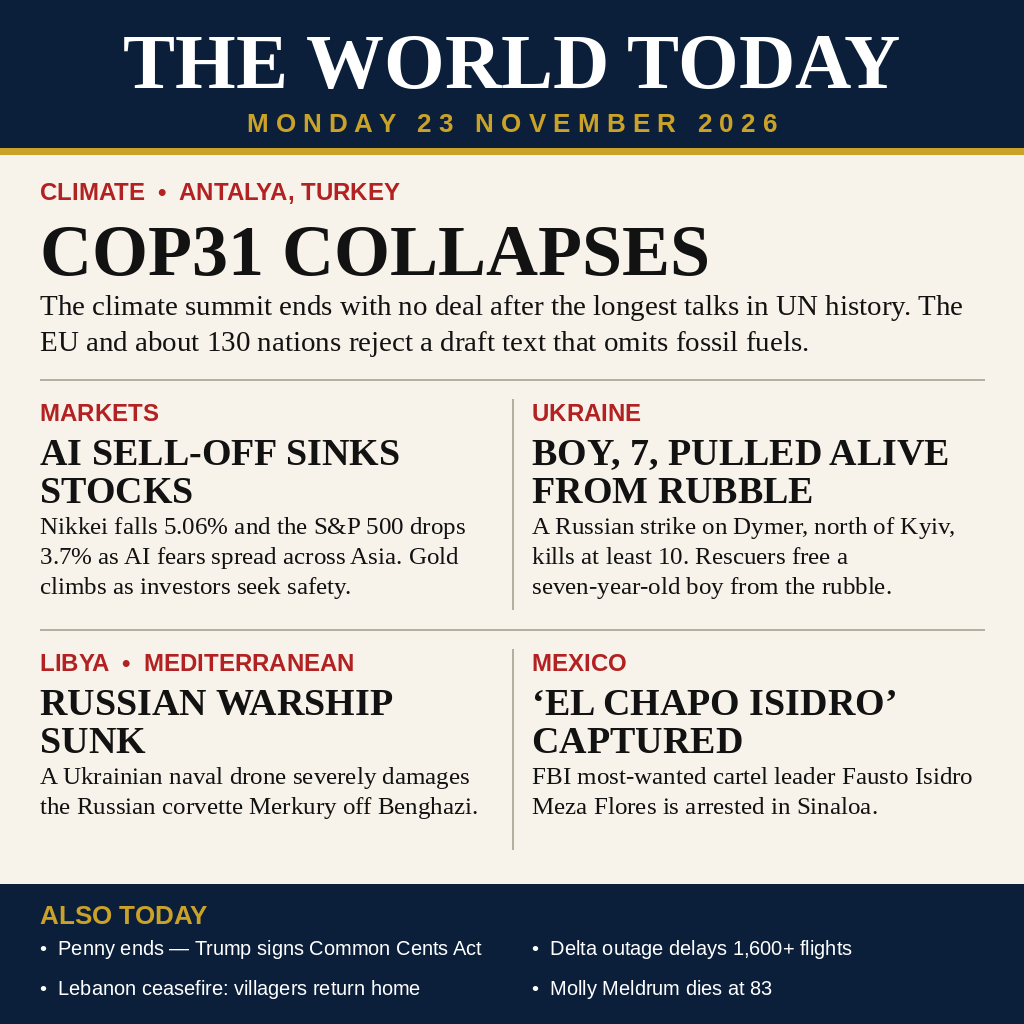
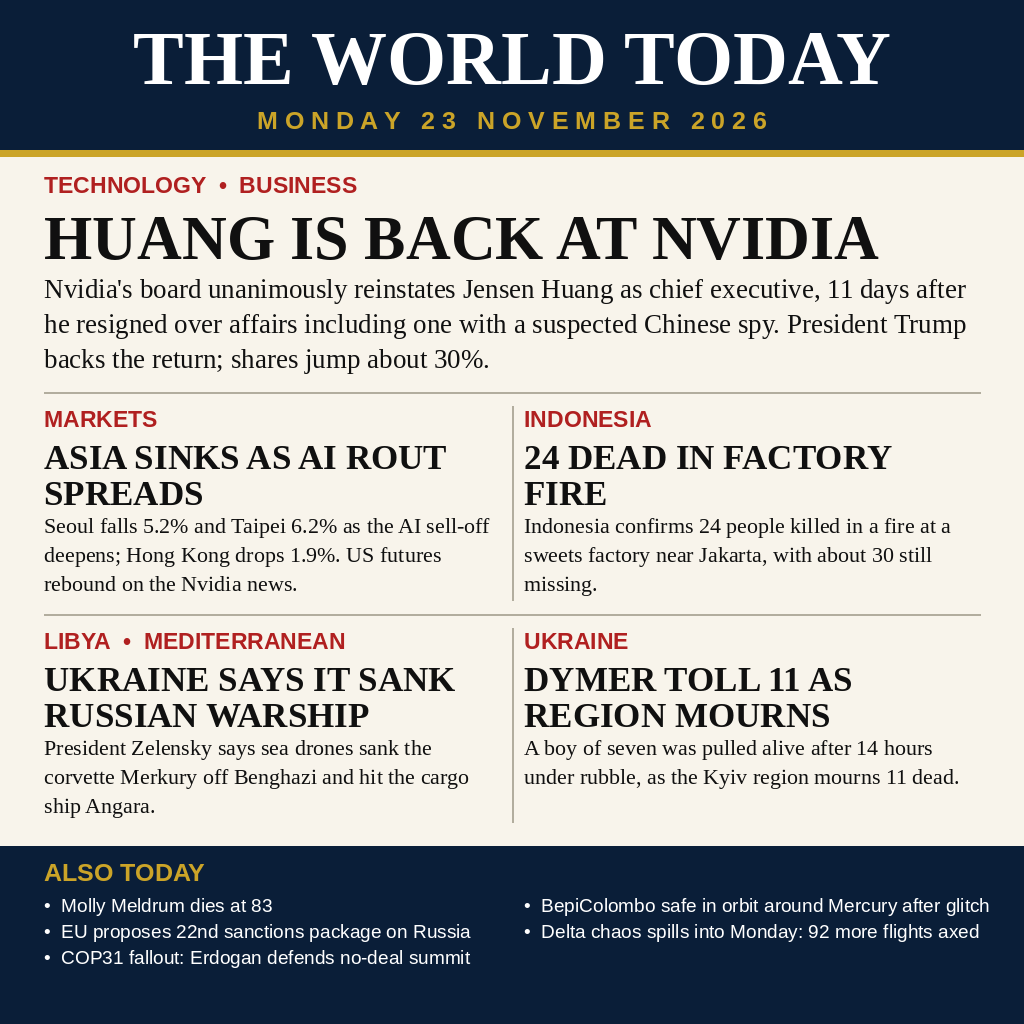
v2: rebuild front page around verified Monday 23 Nov 2026 news
Lead with Nvidia reinstating Jensen Huang (board vote Monday);
fix v1 dating errors (COP31, markets, penny, El Chapo Isidro,
Delta, Lebanon were Fri-Sun/2024 events, not Monday). New stories:
Asia Monday sell-off, Indonesia factory fire toll, Merkury sinking
claim, Dymer toll 11, plus Molly Meldrum, BepiColombo, EU sanctions,
Delta Monday cancellations, COP31 fallout in Also Today.
draw.py rewritten as data-driven renderer; entry.png 1024x1024.

Changed region(s): [[0.0, 0.0312, 1.0, 0.9688]]

diff --git a/draw.py b/draw.py
@@ -1,142 +1,214 @@
 #!/usr/bin/env python3
-"""Draw the news-image-20261123 entry: a one-page newspaper front page
-summing up world news of Monday 23 November 2026. Output: entry.png,
-1024x1024, well under the 1 MiB cap. Run: python3 draw.py"""
+"""news-image-20261123 entry, v2.
+
+Draws a newspaper front page summing up Monday 23 November 2026.
+Every story below is a development of that Monday, verified against
+real reporting (Reuters, WSJ, CNN, AP, ESA, BBC/Reuters wires):
+the Nvidia board's reinstatement of Jensen Huang, Asia's Monday
+sell-off, the confirmed toll of the Indonesian factory fire, the
+Monday claim of the Merkury sinking, Dymer's toll and day of
+mourning, plus the day's other news in the foot strip.
+
+Output: entry.png, 1024x1024, well under the 1 MiB cap.
+Run: python3 draw.py
+"""
 
 from PIL import Image, ImageDraw, ImageFont
-import textwrap
 
-W, H = 1024, 1024
-PAPER = (247, 243, 234)   # off-white newsprint
-INK = (18, 18, 18)
-NAVY = (11, 31, 58)
-RED = (178, 34, 34)
-GOLD = (201, 162, 39)
-GREY = (90, 90, 90)
-RULE = (180, 175, 160)
+CANVAS = (1024, 1024)
+NEWS = (248, 244, 235)      # newsprint off-white
+INK = (16, 16, 16)
+NAVY = (10, 30, 56)
+CRIMSON = (176, 32, 32)
+GOLD = (203, 164, 40)
+MIDGREY = (96, 96, 96)
+HAIRLINE = (178, 173, 158)
+WHITE = (255, 255, 255)
 
-SERIF_B = "/usr/share/fonts/truetype/liberation/LiberationSerif-Bold.ttf"
-SERIF = "/usr/share/fonts/truetype/liberation/LiberationSerif-Regular.ttf"
-SANS_B = "/usr/share/fonts/truetype/liberation/LiberationSans-Bold.ttf"
-SANS = "/usr/share/fonts/truetype/liberation/LiberationSans-Regular.ttf"
+FONT_DIR = "/usr/share/fonts/truetype/liberation"
+SERIF_BOLD = FONT_DIR + "/LiberationSerif-Bold.ttf"
+SERIF_REG = FONT_DIR + "/LiberationSerif-Regular.ttf"
+SANS_BOLD = FONT_DIR + "/LiberationSans-Bold.ttf"
+SANS_REG = FONT_DIR + "/LiberationSans-Regular.ttf"
+
+MARGIN = 44
+CONTENT_W = CANVAS[0] - 2 * MARGIN
+GUTTER = 24
+HALF_W = (CONTENT_W - GUTTER) // 2
 
 
-def font(path, size):
+def typeface(path, size):
     return ImageFont.truetype(path, size)
 
 
-def wrap(draw, text, fnt, max_w):
-    words, lines, cur = text.split(), [], ""
-    for w in words:
-        trial = (cur + " " + w).strip()
-        if draw.textlength(trial, font=fnt) <= max_w:
-            cur = trial
+def flow_text(canvas, text, face, limit):
+    """Greedy word wrap; returns a list of lines fitting `limit` px."""
+    out, current = [], ""
+    for word in text.split():
+        trial = (current + " " + word).strip()
+        if canvas.textlength(trial, font=face) <= limit or not current:
+            current = trial
         else:
-            lines.append(cur)
-            cur = w
-    if cur:
-        lines.append(cur)
-    return lines
+            out.append(current)
+            current = word
+    if current:
+        out.append(current)
+    return out
 
 
-def para(draw, x, y, text, fnt, max_w, leading, fill=INK):
-    for line in wrap(draw, text, fnt, max_w):
-        draw.text((x, y), line, font=fnt, fill=fill)
-        y += leading
+def draw_lines(canvas, x, y, lines, face, step, colour=INK):
+    for line in lines:
+        canvas.text((x, y), line, font=face, fill=colour)
+        y += step
     return y
 
 
-def kicker(draw, x, y, text, color=RED):
-    f = font(SANS_B, 24)
-    draw.text((x, y), text, font=f, fill=color)
-    return y + 32
+def draw_kicker(canvas, x, y, label):
+    face = typeface(SANS_BOLD, 23)
+    canvas.text((x, y), label.upper(), font=face, fill=CRIMSON)
+    return y + 31
 
 
-def headline(draw, x, y, text, size, max_w, fill=INK):
-    f = font(SERIF_B, size)
-    for line in wrap(draw, text, f, max_w):
-        draw.text((x, y), line, font=f, fill=fill)
-        y += int(size * 1.02)
+def draw_headline(canvas, x, y, text, size, limit):
+    face = typeface(SERIF_BOLD, size)
+    lines = flow_text(canvas, text, face, limit)
+    return draw_lines(canvas, x, y, lines, face, int(size * 1.04))
+
+
+def draw_body(canvas, x, y, text, size, limit):
+    face = typeface(SERIF_REG, size)
+    lines = flow_text(canvas, text, face, limit)
+    return draw_lines(canvas, x, y, lines, face, int(size * 1.32))
+
+
+def draw_rule(canvas, y, x0=MARGIN, x1=None):
+    canvas.line([(x0, y), (x1 or CANVAS[0] - MARGIN, y)], fill=HAIRLINE, width=2)
+
+
+def draw_vrule(canvas, x, y0, y1):
+    canvas.line([(x, y0), (x, y1)], fill=HAIRLINE, width=2)
+
+
+def draw_story(canvas, x, y, story, head_size=35):
+    """One kicker + headline + body block. Returns the y below it."""
+    y = draw_kicker(canvas, x, y, story["kicker"])
+    y = draw_headline(canvas, x, y, story["headline"], head_size, HALF_W)
+    y = draw_body(canvas, x, y + 4, story["body"], 22, HALF_W)
     return y
 
 
-img = Image.new("RGB", (W, H), PAPER)
-d = ImageDraw.Draw(img)
+LEAD = {
+    "kicker": "Technology  •  Business",
+    "headline": "HUANG IS BACK AT NVIDIA",
+    "body": (
+        "Nvidia's board unanimously reinstates Jensen Huang as chief "
+        "executive, 11 days after he resigned over affairs including "
+        "one with a suspected Chinese spy. President Trump backs the "
+        "return; shares jump about 30%."
+    ),
+}
 
-# ---- Masthead -------------------------------------------------------
-d.rectangle([0, 0, W, 148], fill=NAVY)
-d.text((512, 18), "THE WORLD TODAY", font=font(SERIF_B, 78),
-       fill=(255, 255, 255), anchor="ma")
-d.text((512, 108), "M O N D A Y   2 3   N O V E M B E R   2 0 2 6",
-       font=font(SANS_B, 26), fill=GOLD, anchor="ma")
-d.rectangle([0, 148, W, 154], fill=GOLD)
-
-# ---- Lead story: COP31 ----------------------------------------------
-y = 178
-y = kicker(d, 40, y, "CLIMATE  •  ANTALYA, TURKEY")
-y = headline(d, 40, y, "COP31 COLLAPSES", 72, 944)
-y = para(d, 40, y + 6,
-         "The climate summit ends with no deal after the longest talks in "
-         "UN history. The EU and about 130 nations reject a draft text "
-         "that omits fossil fuels.",
-         font(SERIF, 29), 944, 36)
-d.line([40, y + 18, 984, y + 18], fill=RULE, width=2)
-
-# ---- Row 1: markets | Ukraine ---------------------------------------
-y1 = y + 38
-col_w = 452
-y = kicker(d, 40, y1, "MARKETS")
-y = headline(d, 40, y, "AI SELL-OFF SINKS STOCKS", 38, col_w)
-para(d, 40, y + 4,
-     "Nikkei falls 5.06% and the S&P 500 drops 3.7% as AI fears spread "
-     "across Asia. Gold climbs as investors seek safety.",
-     font(SERIF, 25), col_w, 30)
-
-y = kicker(d, 532, y1, "UKRAINE")
-y = headline(d, 532, y, "BOY, 7, PULLED ALIVE FROM RUBBLE", 38, col_w)
-para(d, 532, y + 4,
-     "A Russian strike on Dymer, north of Kyiv, kills at least 10. "
-     "Rescuers free a seven-year-old boy from the rubble.",
-     font(SERIF, 25), col_w, 30)
-
-d.line([512, y1, 512, y1 + 210], fill=RULE, width=2)
-d.line([40, y1 + 230, 984, y1 + 230], fill=RULE, width=2)
-
-# ---- Row 2: warship | cartel boss -----------------------------------
-y2 = y1 + 250
-y = kicker(d, 40, y2, "LIBYA  •  MEDITERRANEAN")
-y = headline(d, 40, y, "RUSSIAN WARSHIP SUNK", 38, col_w)
-para(d, 40, y + 4,
-     "A Ukrainian naval drone severely damages the Russian corvette "
-     "Merkury off Benghazi.",
-     font(SERIF, 25), col_w, 30)
-
-y = kicker(d, 532, y2, "MEXICO")
-y = headline(d, 532, y, "\u2018EL CHAPO ISIDRO\u2019 CAPTURED", 38, col_w)
-para(d, 532, y + 4,
-     "FBI most-wanted cartel leader Fausto Isidro Meza Flores is arrested "
-     "in Sinaloa.",
-     font(SERIF, 25), col_w, 30)
-
-d.line([512, y2, 512, y2 + 200], fill=RULE, width=2)
-
-# ---- Bottom strip: also today ---------------------------------------
-by = 884
-d.rectangle([0, by, W, H], fill=NAVY)
-d.text((40, by + 16), "ALSO TODAY", font=font(SANS_B, 26), fill=GOLD)
-items = [
-    "Penny ends \u2014 Trump signs Common Cents Act",
-    "Delta outage delays 1,600+ flights",
-    "Lebanon ceasefire: villagers return home",
-    "Molly Meldrum dies at 83",
+ROW_ONE = [
+    {
+        "kicker": "Markets",
+        "headline": "ASIA SINKS AS AI ROUT SPREADS",
+        "body": (
+            "Seoul falls 5.2% and Taipei 6.2% as the AI sell-off "
+            "deepens; Hong Kong drops 1.9%. US futures rebound on "
+            "the Nvidia news."
+        ),
+    },
+    {
+        "kicker": "Indonesia",
+        "headline": "24 DEAD IN FACTORY FIRE",
+        "body": (
+            "Indonesia confirms 24 people killed in a fire at a "
+            "sweets factory near Jakarta, with about 30 still missing."
+        ),
+    },
 ]
-yy = by + 52
-for i, item in enumerate(items):
-    col_x = 40 if i % 2 == 0 else 532
-    if i == 2:
-        yy = by + 92
-    d.text((col_x, yy), "\u2022  " + item, font=font(SANS, 20),
-           fill=(255, 255, 255))
 
-img.save("entry.png", optimize=True)
-print("saved entry.png")
+ROW_TWO = [
+    {
+        "kicker": "Libya  •  Mediterranean",
+        "headline": "UKRAINE SAYS IT SANK RUSSIAN WARSHIP",
+        "body": (
+            "President Zelensky says sea drones sank the corvette "
+            "Merkury off Benghazi and hit the cargo ship Angara."
+        ),
+    },
+    {
+        "kicker": "Ukraine",
+        "headline": "DYMER TOLL 11 AS REGION MOURNS",
+        "body": (
+            "A boy of seven was pulled alive after 14 hours under "
+            "rubble, as the Kyiv region mourns 11 dead."
+        ),
+    },
+]
+
+ALSO_TODAY = [
+    "Molly Meldrum dies at 83",
+    "BepiColombo safe in orbit around Mercury after glitch",
+    "EU proposes 22nd sanctions package on Russia",
+    "Delta chaos spills into Monday: 92 more flights axed",
+    "COP31 fallout: Erdogan defends no-deal summit",
+]
+
+
+def build():
+    page = Image.new("RGB", CANVAS, NEWS)
+    pen = ImageDraw.Draw(page)
+
+    # ---- Masthead ---------------------------------------------------
+    pen.rectangle([0, 0, CANVAS[0], 150], fill=NAVY)
+    pen.text((512, 16), "THE WORLD TODAY", font=typeface(SERIF_BOLD, 76),
+             fill=WHITE, anchor="ma")
+    pen.text((512, 106), "M O N D A Y   2 3   N O V E M B E R   2 0 2 6",
+             font=typeface(SANS_BOLD, 25), fill=GOLD, anchor="ma")
+    pen.rectangle([0, 150, CANVAS[0], 156], fill=GOLD)
+
+    # ---- Lead story -------------------------------------------------
+    y = 172
+    y = draw_kicker(pen, MARGIN, y, LEAD["kicker"])
+    y = draw_headline(pen, MARGIN, y, LEAD["headline"], 62, CONTENT_W)
+    y = draw_body(pen, MARGIN, y + 6, LEAD["body"], 27, CONTENT_W)
+    draw_rule(pen, y + 14)
+
+    # ---- Row one: markets | Indonesia -------------------------------
+    top = y + 28
+    left_end = draw_story(pen, MARGIN, top, ROW_ONE[0])
+    right_end = draw_story(pen, MARGIN + HALF_W + GUTTER, top, ROW_ONE[1])
+    row_bottom = max(left_end, right_end)
+    draw_vrule(pen, 512, top, row_bottom)
+    draw_rule(pen, row_bottom + 14)
+
+    # ---- Row two: Libya | Ukraine -----------------------------------
+    top2 = row_bottom + 28
+    left_end = draw_story(pen, MARGIN, top2, ROW_TWO[0])
+    right_end = draw_story(pen, MARGIN + HALF_W + GUTTER, top2, ROW_TWO[1])
+    row2_bottom = max(left_end, right_end)
+    draw_vrule(pen, 512, top2, row2_bottom)
+    print("layout: lead ends", y, "| row1 ends", row_bottom,
+          "| row2 ends", row2_bottom)
+    assert row2_bottom <= 868, "row 2 overflows into the foot strip"
+
+    # ---- Foot strip: also today -------------------------------------
+    strip_top = 846
+    pen.rectangle([0, strip_top, CANVAS[0], CANVAS[1]], fill=NAVY)
+    pen.text((MARGIN, strip_top + 12), "ALSO TODAY",
+             font=typeface(SANS_BOLD, 25), fill=GOLD)
+    item_face = typeface(SANS_REG, 19)
+    col_x = [MARGIN, MARGIN + HALF_W + GUTTER]
+    rows_y = [strip_top + 48, strip_top + 74, strip_top + 100]
+    for idx, item in enumerate(ALSO_TODAY):
+        cx = col_x[idx % 2]
+        cy = rows_y[idx // 2]
+        pen.text((cx, cy), "\u2022  " + item, font=item_face, fill=WHITE)
+
+    page.save("entry.png", optimize=True)
+    print("saved entry.png")
+
+
+if __name__ == "__main__":
+    build()

diff --git a/README.md b/README.md
@@ -9,20 +9,31 @@ drawn as a newspaper front page — *The World Today*.
 
 ## The day's stories
 
-- **COP31 collapses** — the climate summit in Antalya, Turkey ends with no
-  deal after the longest talks in UN history; the EU and ~130 nations reject
-  a draft text that omits fossil fuels.
-- **AI sell-off sinks stocks** — Nikkei −5.06%, S&P 500 −3.7% as fears that
-  AI shares are overpriced spread across Asia; gold climbs.
-- **Boy, 7, pulled alive from rubble** — a Russian strike on Dymer, north
-  of Kyiv, kills at least 10.
-- **Russian warship sunk** — a Ukrainian naval drone severely damages the
-  corvette Merkury off Benghazi, Libya.
-- **'El Chapo Isidro' captured** — FBI most-wanted cartel leader Fausto
-  Isidro Meza Flores is arrested in Sinaloa, Mexico.
-- **Also today:** the penny ends as Trump signs the Common Cents Act; a
-  Delta outage delays 1,600+ flights; Lebanon ceasefire brings villagers
-  home; Molly Meldrum dies at 83.
+- **Huang is back at Nvidia** — the board unanimously reinstates Jensen
+  Huang as chief executive, 11 days after he resigned over affairs
+  including one with a suspected Chinese spy; Trump backs the return
+  and Nvidia shares jump about 30%.
+- **Asia sinks as AI rout spreads** — Seoul falls 5.2% and Taipei 6.2%
+  on Monday; Hong Kong drops 1.9%. US futures rebound on the Nvidia news.
+- **24 dead in factory fire** — Indonesia confirms 24 people killed in
+  a fire at a sweets factory near Jakarta, with about 30 still missing.
+- **Ukraine says it sank Russian warship** — President Zelensky says
+  sea drones sank the corvette Merkury off Benghazi and hit the cargo
+  ship Angara.
+- **Dymer toll 11 as region mourns** — a boy of seven was pulled alive
+  after 14 hours under rubble; the Kyiv region mourns 11 dead.
+- **Also today:** Molly Meldrum dies at 83; BepiColombo safe in orbit
+  around Mercury after a glitch; EU proposes a 22nd sanctions package
+  on Russia; Delta chaos spills into Monday with 92 more flights axed;
+  COP31 fallout as Erdogan defends the no-deal summit.
+
+v2 replaces the v1 front page: v1's lead and several stories turned out
+to be Friday–Sunday events (COP31 collapsed Sunday 22 Nov; the Nikkei
+−5.06% and S&P −3.7% moves were Friday's closes; gold fell, not
+climbed; 'El Chapo Isidro' was captured Friday 20 Nov; the penny law
+was signed Friday 20 Nov; the Delta outage was Sunday; the Lebanon
+ceasefire item was a 2024 story). v2 leads with a verified Monday
+event and frames every other story by its Monday development.
 
 ## How it is built
 
